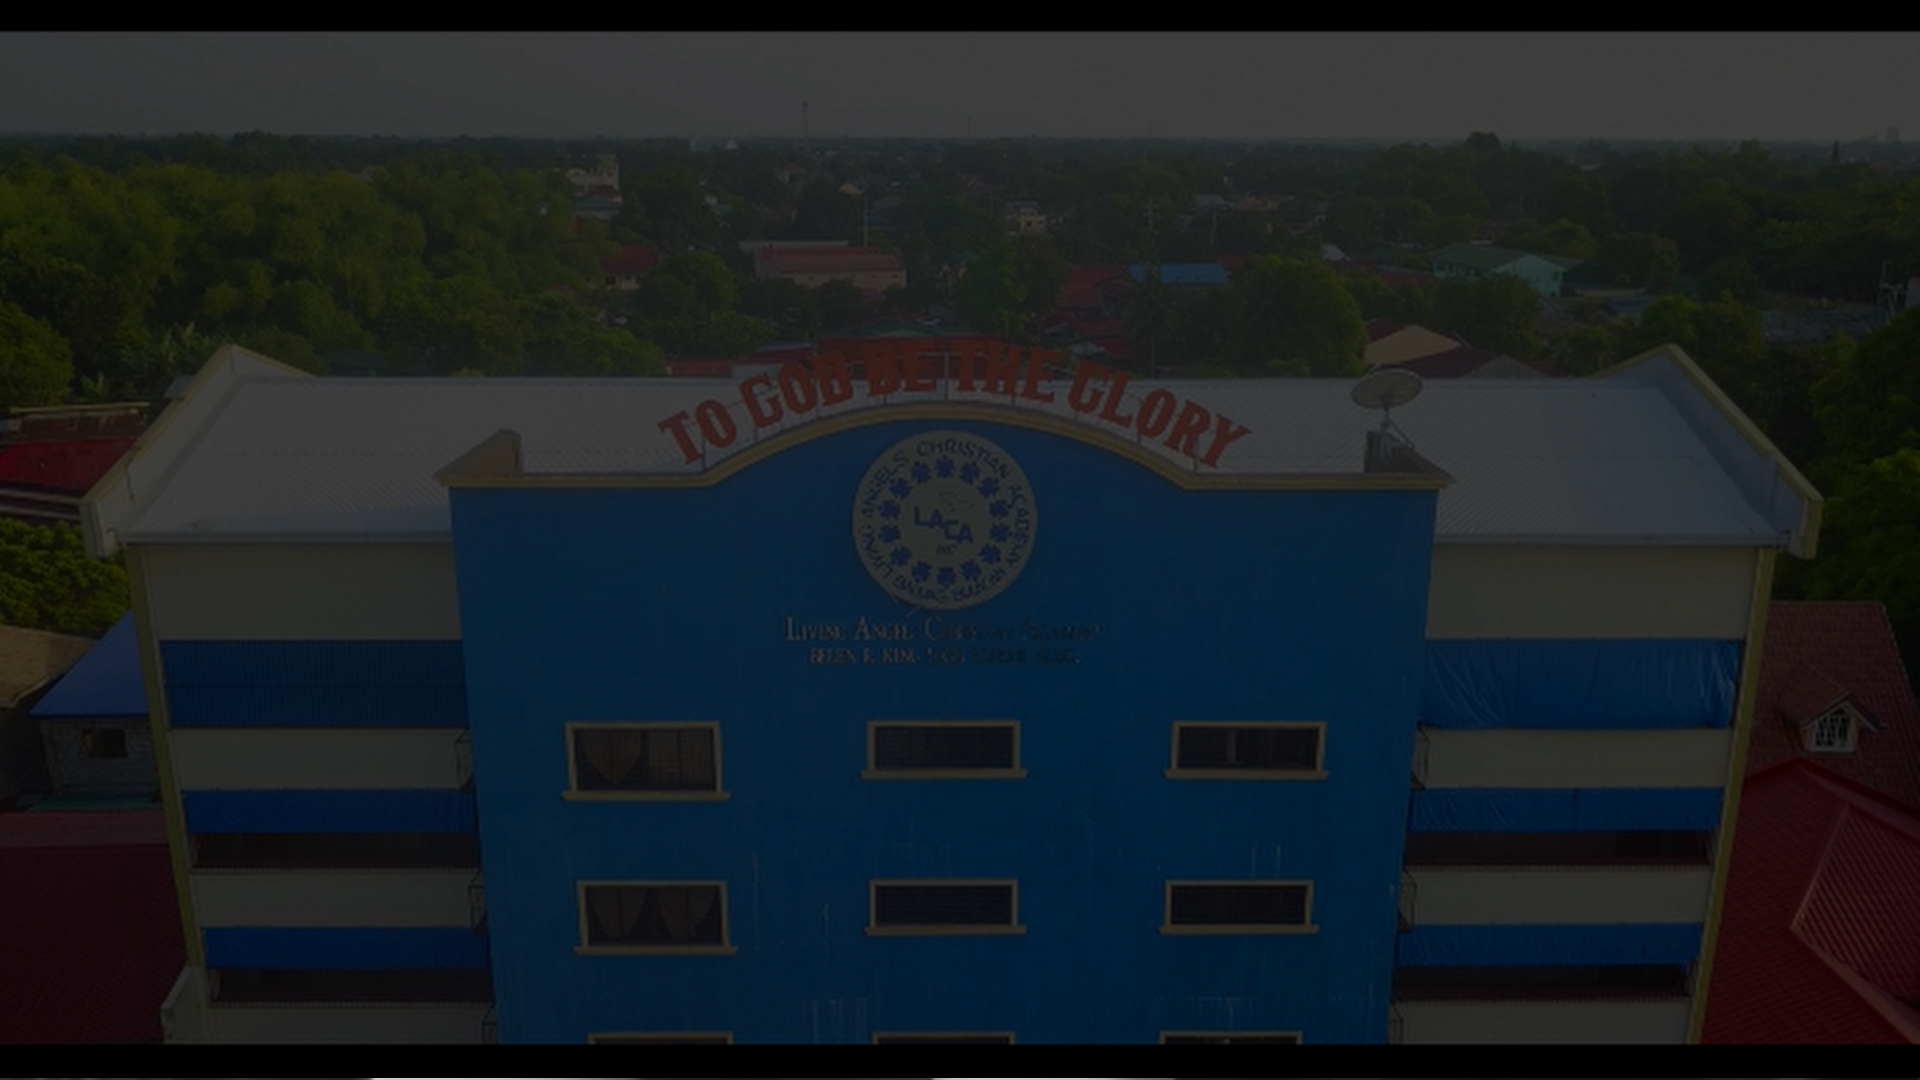
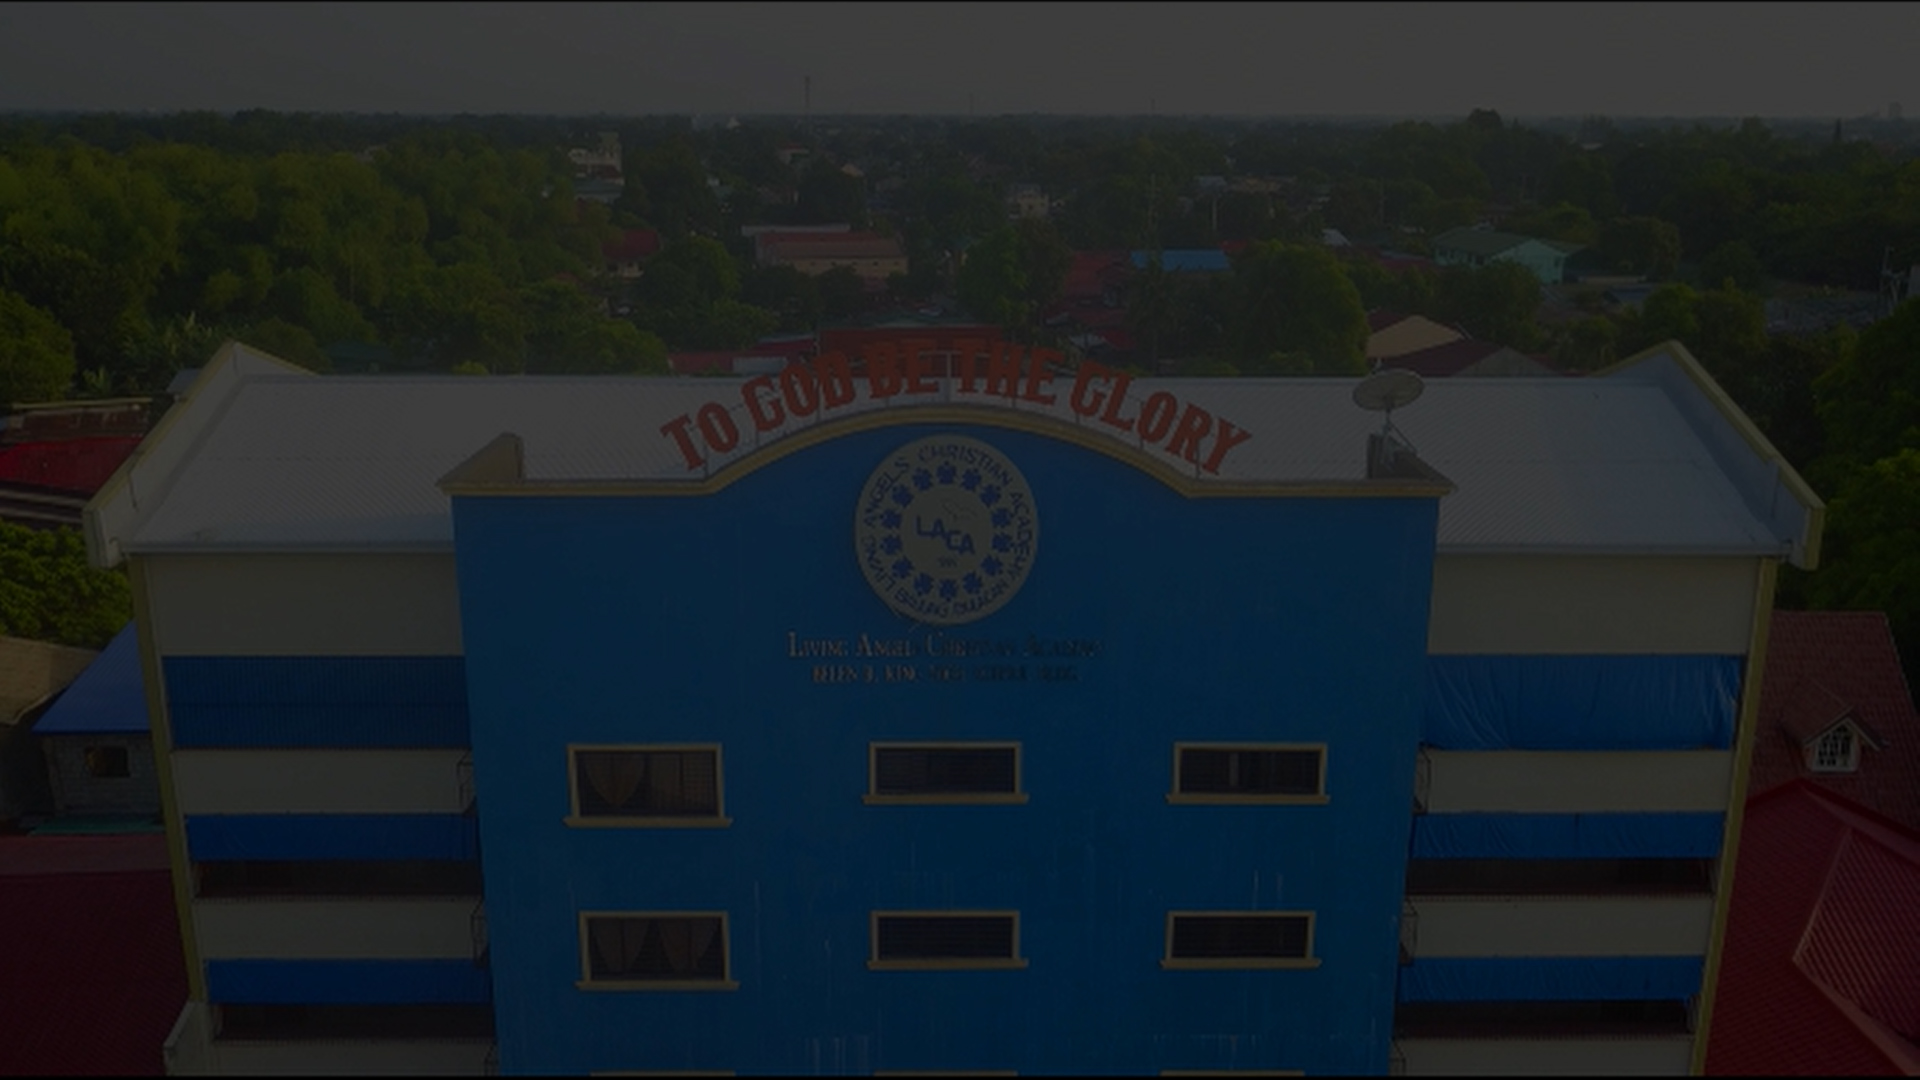
d

diff --git a/index.html b/index.html
@@ -4,7 +4,7 @@
 <head>
     <meta charset="utf-8">
     <meta name="viewport" content="width=device-width, initial-scale=1.0, shrink-to-fit=no">
-        <title>Living Angels Christian Academy</title>
+       <title>Living Angels Christian Academy</title>
     <link rel = "icon" href ="FAV.png"/gfg_200X200.png" 
         type = "image/x-icon">
     <link rel="stylesheet" href="assets/bootstrap/css/bootstrap.min.css">
@@ -26,8 +26,7 @@
     <link rel="stylesheet" href="assets/css/Video-Parallax-Background-v2.css">
 </head>
 
-<body>
-<!-- Load Facebook SDK for JavaScript -->
+<body><!-- Load Facebook SDK for JavaScript -->
       <div id="fb-root"></div>
       <script>
         window.fbAsyncInit = function() {
@@ -50,42 +49,39 @@
         attribution="setup_tool"
         page_id="108998874266340">
       </div>
-    <nav class="navbar navbar-light navbar-expand-lg fixed-top bg-white clean-navbar" data-bs-hover-animate="pulse">
-        <div class="container"><img src="assets/img/FAV.png" width="60"><button data-toggle="collapse" class="navbar-toggler" data-target="#navcol-1"><span class="sr-only">Toggle navigation</span><span class="navbar-toggler-icon"></span></button>
-            <div class="collapse navbar-collapse"
-                data-aos="fade-left" id="navcol-1"><a class="navbar-brand logo" href="#" style="font-family: Montserrat, sans-serif;">LACA</a>
-                <ul class="nav navbar-nav ml-auto">
-                    <li class="nav-item" role="presentation"><a class="nav-link active" data-toggle="tooltip" data-bs-tooltip="" data-bs-hover-animate="pulse" href="index.html">Home</a></li>
-                    <li class="nav-item dropdown"><a class="dropdown-toggle nav-link text-dark" data-toggle="dropdown" aria-expanded="false" data-bs-hover-animate="pulse" href="#" style="filter: contrast(200%) sepia(0%);">A.Y 2021-2022</a>
-                        <div class="dropdown-menu" role="menu"><a class="dropdown-item" role="presentation" href="#">Enroll Now</a><a class="dropdown-item" role="presentation" href="#">Tuition Fee Inquiry</a><a class="dropdown-item" role="presentation" href="#">Requirements&nbsp;</a><a class="dropdown-item"
-                                role="presentation" href="#">FAQ</a></div>
-                    </li>
-                    <li class="nav-item dropdown"><a class="dropdown-toggle nav-link text-dark" data-toggle="dropdown" aria-expanded="false" data-bs-hover-animate="pulse" href="#" style="filter: contrast(200%) sepia(0%);">ACAdemic department</a>
-                        <div class="dropdown-menu" role="menu"><a class="dropdown-item" role="presentation" href="#">Special Education</a><a class="dropdown-item" role="presentation" href="#">Preschool</a><a class="dropdown-item" role="presentation" href="#">Elementary</a><a class="dropdown-item"
-                                role="presentation" href="#">Junior Highschool</a><a class="dropdown-item" role="presentation" href="#">Senior Highschool</a></div>
-                    </li>
-                    <li class="nav-item dropdown"><a class="dropdown-toggle nav-link text-dark" data-toggle="dropdown" aria-expanded="false" data-bs-hover-animate="pulse" href="#" style="filter: contrast(200%) sepia(0%);">Student support services</a>
-                        <div class="dropdown-menu" role="menu"><a class="dropdown-item" role="presentation" href="#">ICT Support</a><a class="dropdown-item" role="presentation" href="#">Library</a><a class="dropdown-item" role="presentation" href="#">Guidance Office</a><a class="dropdown-item"
-                                role="presentation" href="#">Registrar</a><a class="dropdown-item" role="presentation" href="#">Prefect of Discipline</a><a class="dropdown-item" role="presentation" href="#">Clinic</a></div>
-                    </li>
-                    <li class="nav-item dropdown"><a class="dropdown-toggle nav-link text-dark" data-toggle="dropdown" aria-expanded="false" data-bs-hover-animate="pulse" href="#" style="filter: contrast(200%) sepia(0%);">ABout us</a>
-                        <div class="dropdown-menu" role="menu"><a class="dropdown-item" role="presentation" href="#">Mission and Vision</a><a class="dropdown-item" role="presentation" href="#">History</a><a class="dropdown-item" role="presentation" href="#">Virtual Tour</a><a class="dropdown-item"
-                                role="presentation" href="#">Our Partners</a></div>
-                    </li>
-                    <li class="nav-item" role="presentation"></li>
-                    <li class="nav-item" role="presentation"><a class="nav-link active" data-bs-hover-animate="pulse" href="index.html">FAQ</a></li>
-                </ul>
-            </div>
+<nav class="navbar navbar-light navbar-expand-lg fixed-top bg-white clean-navbar">
+    <div class="container"><img src="assets/img/FAV.png" width="60" /><button data-toggle="collapse" data-target="#navcol-1" class="navbar-toggler"><span class="sr-only">Toggle navigation</span><span class="navbar-toggler-icon"></span></button>
+        <div class="collapse navbar-collapse" id="navcol-1"><a class="navbar-brand logo" href="#" style="font-family: Montserrat, sans-serif;">LACA</a>
+            <ul class="nav navbar-nav ml-auto">
+                <li role="presentation" class="nav-item"><a data-toggle="tooltip" class="nav-link active" href="index.html">Home</a></li>
+                <li class="nav-item dropdown"><a data-toggle="dropdown" aria-expanded="false" class="dropdown-toggle nav-link text-dark" href="#" style="filter: contrast(200%) sepia(0%);">A.Y 2021-2022</a>
+                    <div role="menu" class="dropdown-menu"><a role="presentation" class="dropdown-item" href="#">Enroll Now</a><a role="presentation" class="dropdown-item" href="#">Tuition Fee Inquiry</a><a role="presentation" class="dropdown-item" href="#">Requirements </a><a role="presentation"
+                            class="dropdown-item" href="#">FAQ</a></div>
+                </li>
+                <li class="nav-item dropdown"><a data-toggle="dropdown" aria-expanded="false" class="dropdown-toggle nav-link text-dark" href="#" style="filter: contrast(200%) sepia(0%);">ACAdemic department</a>
+                    <div role="menu" class="dropdown-menu"><a role="presentation" class="dropdown-item" href="#">Special Education</a><a role="presentation" class="dropdown-item" href="#">Preschool</a><a role="presentation" class="dropdown-item" href="#">Elementary</a><a role="presentation"
+                            class="dropdown-item" href="#">Junior Highschool</a><a role="presentation" class="dropdown-item" href="#">Senior Highschool</a></div>
+                </li>
+                <li class="nav-item dropdown"><a data-toggle="dropdown" aria-expanded="false" class="dropdown-toggle nav-link text-dark" href="#" style="filter: contrast(200%) sepia(0%);">Student support services</a>
+                    <div role="menu" class="dropdown-menu"><a role="presentation" class="dropdown-item" href="#">ICT Support</a><a role="presentation" class="dropdown-item" href="#">Library</a><a role="presentation" class="dropdown-item" href="#">Guidance Office</a><a role="presentation" class="dropdown-item"
+                            href="#">Registrar</a><a role="presentation" class="dropdown-item" href="#">Prefect of Discipline</a><a role="presentation" class="dropdown-item" href="#">Clinic</a></div>
+                </li>
+                <li class="nav-item dropdown"><a data-toggle="dropdown" aria-expanded="false" class="dropdown-toggle nav-link text-dark" href="#" style="filter: contrast(200%) sepia(0%);">ABout us</a>
+                    <div role="menu" class="dropdown-menu"><a role="presentation" class="dropdown-item" href="#">Mission and Vision</a><a role="presentation" class="dropdown-item" href="#">History</a><a role="presentation" class="dropdown-item" href="#">Virtual Tour</a><a role="presentation"
+                            class="dropdown-item" href="#">Our Partners</a></div>
+                </li>
+                <li role="presentation" class="nav-item"></li>
+                <li role="presentation" class="nav-item"><a class="nav-link active" href="index.html">FAQ</a></li>
+            </ul>
         </div>
-    </nav>
-    <div class="parallax">
-        <div class="container d-flex justify-content-center align-items-center parallax-content" style="height: 100vh;"><img src="assets/img/ffsdfsd.png" style="width: 397px;padding: -2px;margin: 17px;margin-top: 125px;"></div><video class="parallax-background" autoplay="" loop="" muted=""><source src="rain.mp4" type="video/mp4" wp-acf="[{'type':'url','name':'video','label':'Video','wrapper':{'width':25}},{'type':'text','name':'video_css','label':'Video CSS (eg. filters)','wrapper':{'width':25}}]" wp-attr="[{'target':'src','replace':'%1'},{'target':'parent_style','replace':'%2'}]"></video>
+    </div>
+</nav>
+    <div class="parallax" style="height: 572px;margin-top: -60px;">
+        <div class="container d-flex justify-content-center align-items-center parallax-content" style="height: 89vh;"><img src="assets/img/ffsdfsd.png" style="width: 397px;padding: -2px;margin: 11px;margin-top: 153px;"></div><video class="parallax-background" autoplay="" loop="" muted=""><source src="rain.mp4" type="video/mp4" wp-acf="[{'type':'url','name':'video','label':'Video','wrapper':{'width':25}},{'type':'text','name':'video_css','label':'Video CSS (eg. filters)','wrapper':{'width':25}}]" wp-attr="[{'target':'src','replace':'%1'},{'target':'parent_style','replace':'%2'}]"></video>
         <div
             class="parallax-placeholder" style="background-image:url(&quot;assets/img/placeholder.jpg&quot;);"></div>
     </div>
-    <div style="color: #ffffff;filter: blur(100px);opacity: 0.20;">
-        <div class="header-blue" style="background-repeat: round;background-color: rgba(255,255,255,0);filter: blur(0px) brightness(107%);font-size: 38px;font-family: Montserrat, sans-serif;"></div>
-    </div>
+    <div style="color: #ffffff;filter: blur(100px);opacity: 0.20;"></div>
     <div class="photo-gallery">
         <div class="container">
             <h2 class="text-center">Articles and Vlogs</h2>
@@ -96,7 +92,7 @@
                 <div class="col-sm-6 col-md-4 col-lg-3 item"><a data-lightbox="photos" href="assets/img/desk.jpg"><img class="img-fluid" data-bs-hover-animate="pulse" src="assets/img/article2.png"></a></div>
                 <div class="col-sm-6 col-md-4 col-lg-3 item"><a data-lightbox="photos" href="assets/img/desk.jpg"><img class="img-fluid" data-bs-hover-animate="pulse" src="assets/img/article8.png"></a></div>
                 <div class="col-sm-6 col-md-4 col-lg-3 item"><a data-lightbox="photos" href="assets/img/building.jpg"><img class="img-fluid" data-bs-hover-animate="pulse" src="assets/img/article4.png"></a></div>
-                <div class="col-sm-6 col-md-4 col-lg-3 item"><a data-lightbox="photos" href="assets/img/loft.jpg"><img class="img-fluid" data-bs-hover-animate="pulse" src="assets/img/article3.png"></a></div>
+                <div class="col-sm-6 col-md-4 col-lg-3 item"><a data-lightbox="photos" href="assets/img/loft.jpg"><img class="rounded img-fluid" data-bs-hover-animate="pulse" src="assets/img/article3.png"></a></div>
                 <div class="col-sm-6 col-md-4 col-lg-3 item"><a data-lightbox="photos" href="assets/img/building.jpg"><img class="img-fluid" data-bs-hover-animate="pulse" src="assets/img/article5.png"></a></div>
                 <div class="col-sm-6 col-md-4 col-lg-3 item"><a data-lightbox="photos" href="assets/img/loft.jpg"><img class="img-fluid" data-bs-hover-animate="pulse" src="assets/img/article3.png"></a></div>
                 <div class="col-sm-6 col-md-4 col-lg-3 item"><a data-lightbox="photos" href="assets/img/desk.jpg"><img class="img-fluid" data-bs-hover-animate="pulse" src="assets/img/article4.png"></a></div>
